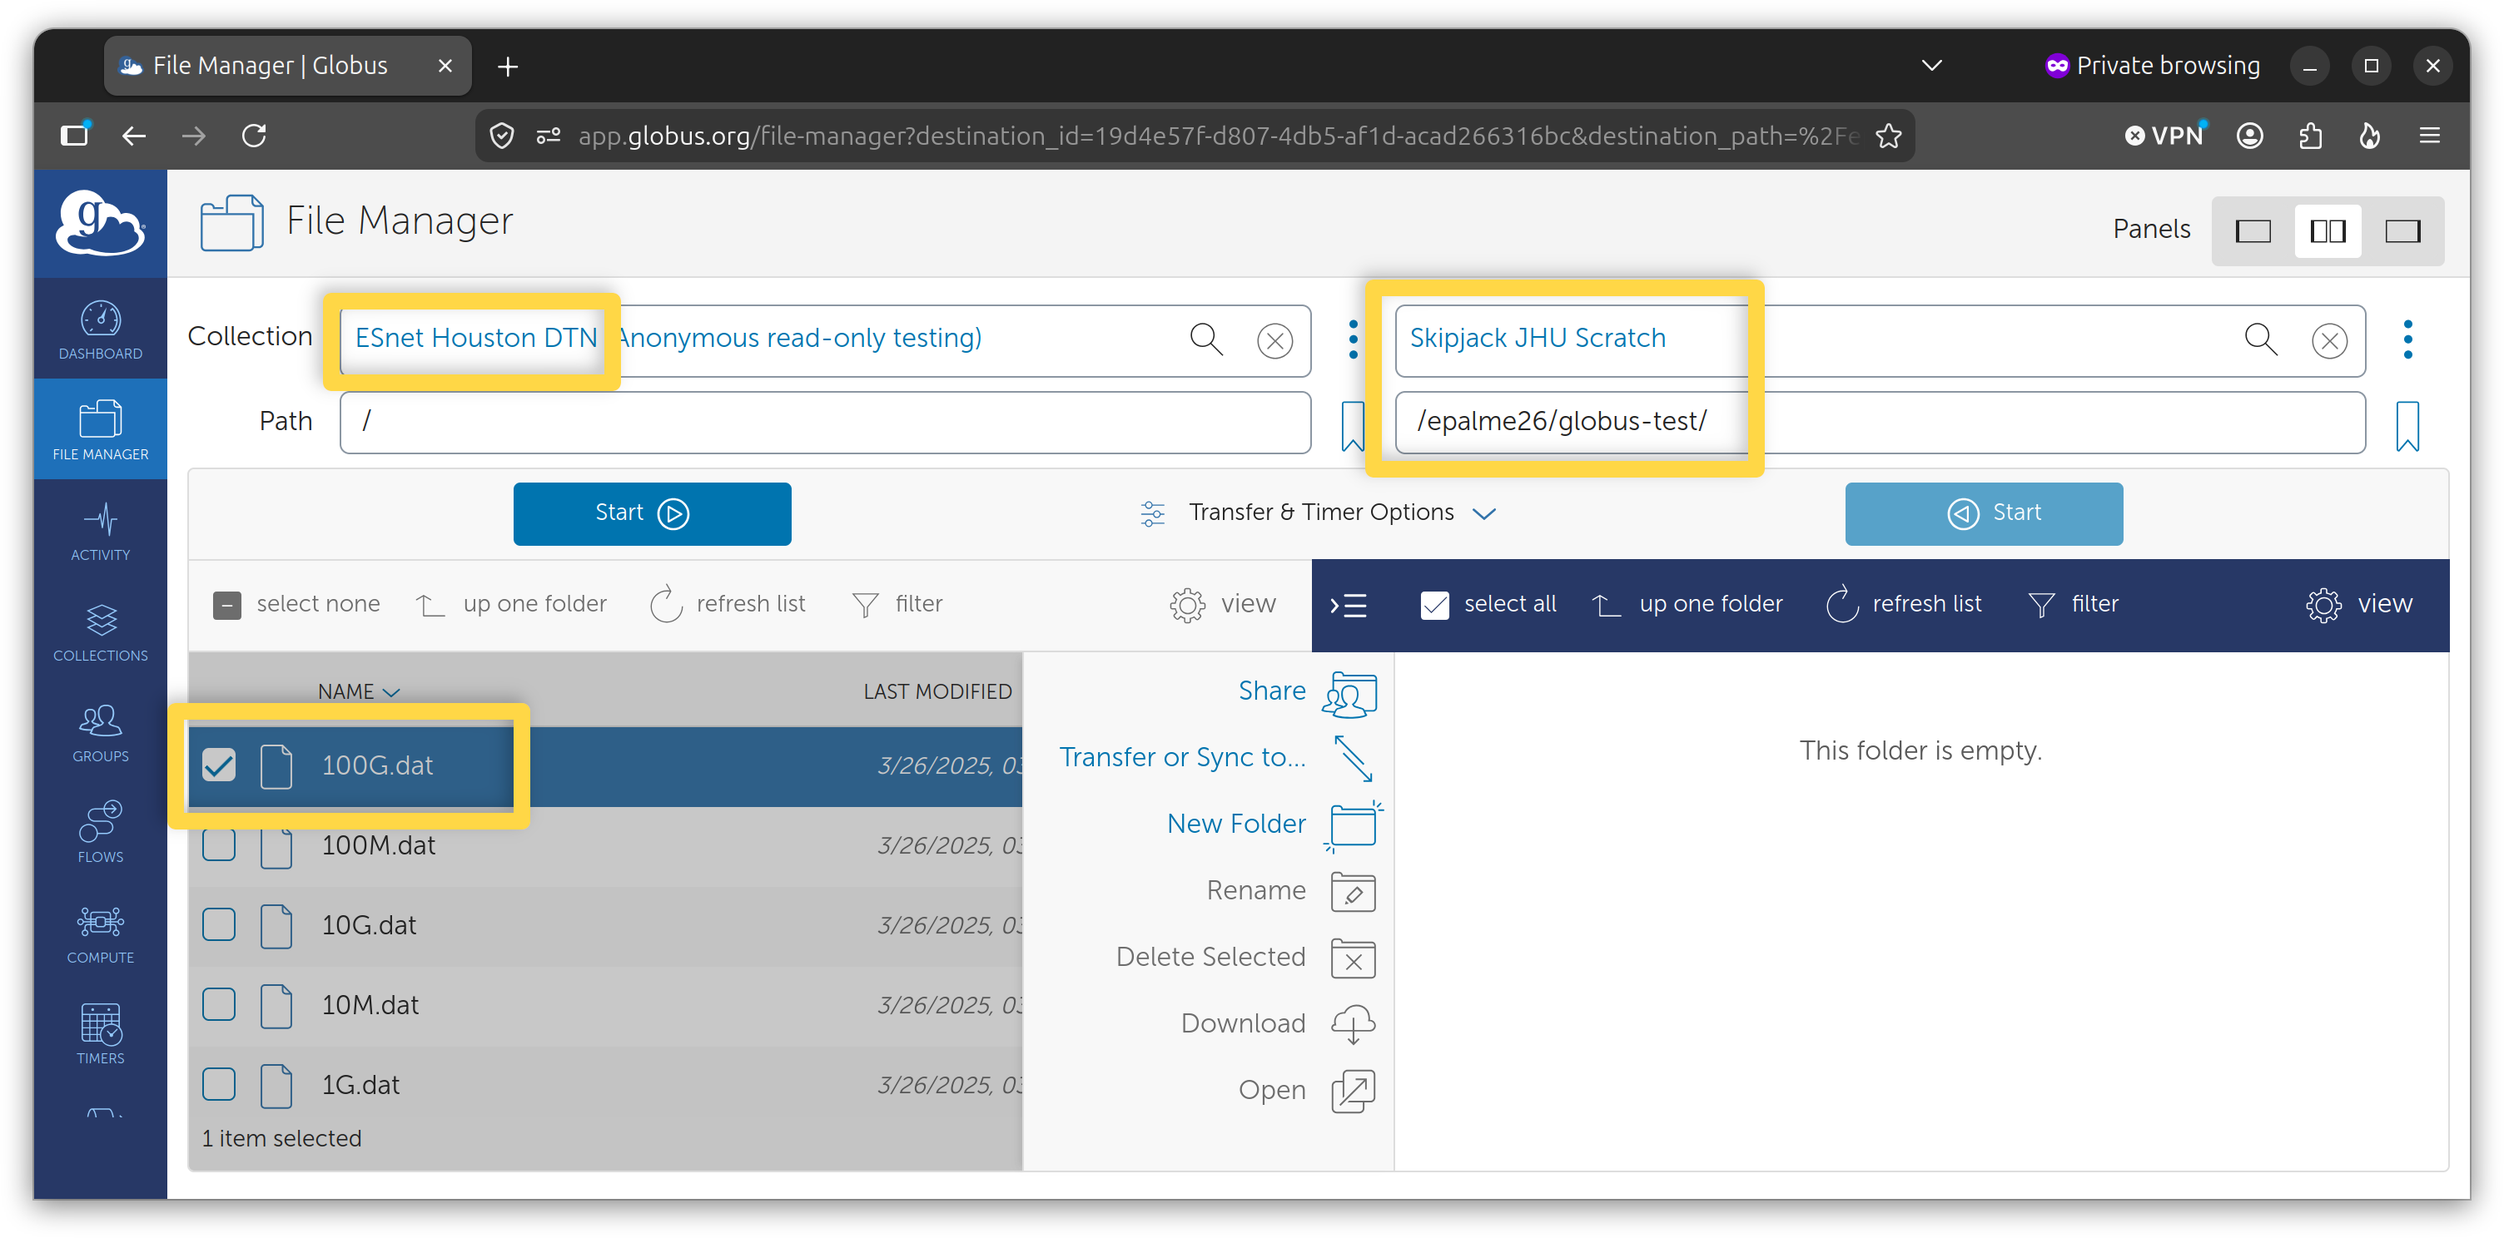
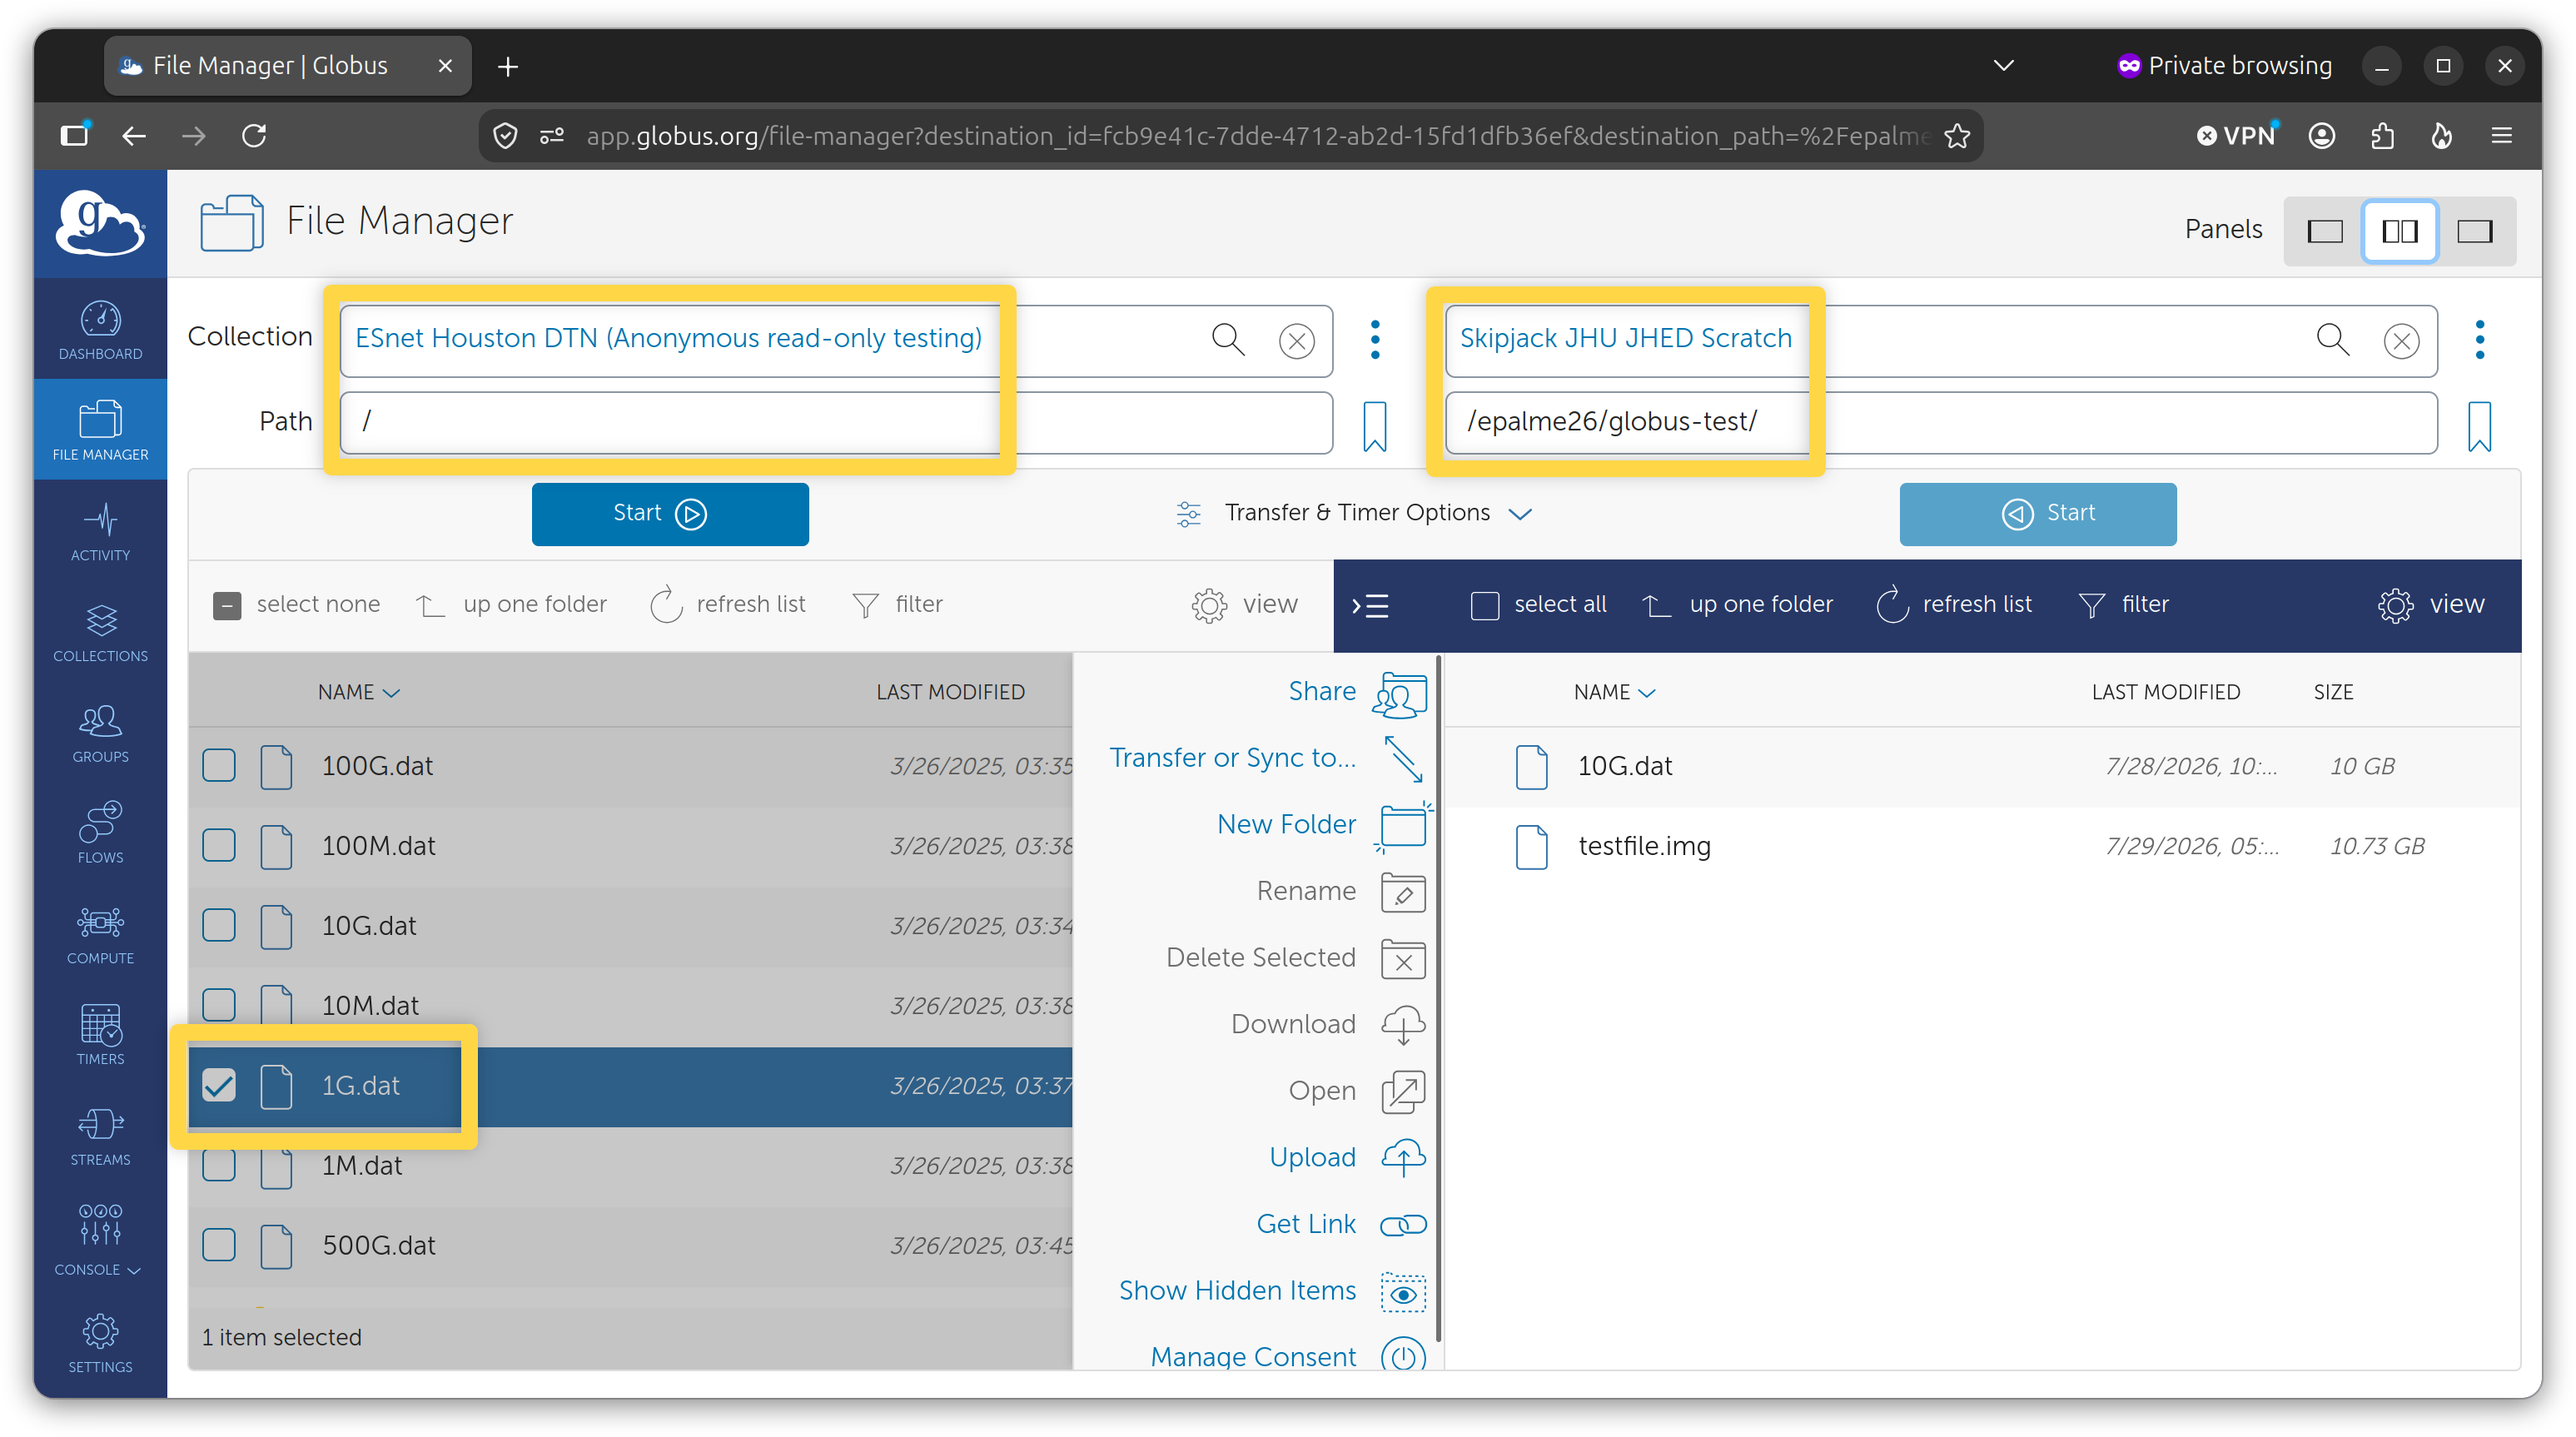
update Globus directions for SJ and JHED ID users

Changed region(s): [[0.0, 0.0, 1.0, 0.9892], [0.7188, 0.5874, 0.8125, 0.6183], [0.625, 0.5874, 0.6562, 0.6183]]

diff --git a/1_Clusters/Skipjack/Quickstart.rst b/1_Clusters/Skipjack/Quickstart.rst
@@ -63,6 +63,8 @@ Navigate to the Arch Portal at https://portal.arch.jhu.edu
 Select Affiliation and Use Case
 ^^^^^^^^^^^^^^^^^^^^^^^^^^^^^^^
 
+.. _affiliation:
+
 As a multi-architecture system with a diverse user base, Skipjack requires users to determine
 their access method based on both their affiliation and their specific purpose. To find the
 correct procedure, please refer to the table below.
@@ -341,15 +343,6 @@ Enter the code from your OTP app that corresponds to your Skipjack account.
 Data Transfer with Globus
 -------------------------
 
-.. admonition:: JHED ID users should use *Skipjack JHU JHED Home* and *Skipjack JHU JHED Scratch*
-   :class: warning
-
-   For JHED ID users, please follow the directions below but use **Skipjack JHU JHED Home** in place
-   of **Skipjack JHU Home** and **Skipjack JHU JHED Scratch** in place of **Skipjack JHU Scratch**
-   endpoints. Updated docs coming soon!
-
-   Questions? Please contact us at `arch@jh.edu <mailto:arch@jh.edu>`_
-
 We recommend using Globus to transfer large amounts of data to and from the Skipjack
 cluster. Globus reliably manages transfers in the background, handling restarts
 if interruptions occur.
@@ -366,21 +359,22 @@ can be done by reversing the endpoints or changing the transfer direction.
 1. Connect to Globus
 ^^^^^^^^^^^^^^^^^^^^
 
-Using your web browser, navigate to `<https://www.globus.org>`_.
+Using your web browser, navigate to `<https://www.globus.org>`_ and click **Log in**.
 
 .. image:: images/globus-nav.png
 
-2. Select Johns Hopkins
-^^^^^^^^^^^^^^^^^^^^^^^
+2. Select an Organizational Login
+^^^^^^^^^^^^^^^^^^^^^^^^^^^^^^^^^
 
-Select **Johns Hopkins** from the dropdown menu.
+Select **Johns Hopkins** from the dropdown menu to log in as a JHED ID user.
+Other users may want to select another organizational login.
 
 .. image:: images/globus-jhu-login.png
 
-3. Log in with JHED ID
-^^^^^^^^^^^^^^^^^^^^^^
+3. Log in to Globus
+^^^^^^^^^^^^^^^^^^^
 
-Authenticate via the Johns Hopkins SSO using your JHED ID.
+Authenticate via the Johns Hopkins SSO using your JHED ID or other appropriate login.
 
 .. image:: images/globus-jhu-id.png
 
@@ -408,15 +402,17 @@ In the new search bar on the second panel, search for **Skipjack**.
 
 .. image:: images/globus-twopane.png
 
-There are several Skipjack endpoints available:
+There are several Skipjack endpoints available. Select the endpoint that matches your `affiliation`_.
 
-   +---------------------------+
-   | **Skipjack JHU Homes**    |
-   +---------------------------+
-   | **Skipjack JHU Scratch**  |
-   +---------------------------+
-   | **Skipjack SSCI Scratch** |
-   +---------------------------+
+   +------------------+------------------------------------------------------------+
+   | Affiliation      | Globus Endpoints                                           |
+   +==================+============================================================+
+   | JHED ID          | **Skipjack JHU JHED Homes**, **Skipjack JHU JHED Scratch** |
+   +------------------+------------------------------------------------------------+
+   | Schmidt Sciences | **Skipjack JHU Homes**, **Skipjack SSCI Scratch**          |
+   +------------------+------------------------------------------------------------+
+   | External User    | **Skipjack JHU Homes**, **Skipjack JHU Scratch**           |
+   +------------------+------------------------------------------------------------+
 
 .. image:: images/globus-sj-endpts.png
 
@@ -427,22 +423,20 @@ Click the name hyperlink of the desired Skipjack endpoint to set it as your tran
 
 **Authenticate to Allow Access**
 
-On first access, Globus will ask for consent to access your data. At the prompt, click **Continue**.
+Globus will ask for consent to access data on the Skipjack endpoint. At the prompt, click **Continue**.
 
 .. image:: images/globus-consent-cont.png
 
-Follow the link **JHU Skipjack OIDC Server**.
+
+Click the link to continue the authentication process. JHED ID users should not need to reauthenticate.
 
 .. image:: images/globus-consent-link.png
 
-At the prompt, enter your Skipjack username and password (the same SSH credentials used to `Connect to the Skipjack Cluster`_).
+
+**Schmidt Sciences** and **External Users** will be prompted to enter their Skipjack username and password
+(the same SSH credentials used to `Connect to the Skipjack Cluster`_).
 
 .. image:: images/globus-consent-creds.png
-
-If prompted, log in to your primary identity, click **Continue** and follow the on-screen
-prompts to authenticate with your JHED ID.
-
-.. image:: images/globus-consent-primary.png
 
 **Allow Globus Web App**
 
@@ -492,7 +486,7 @@ You can monitor, manage and confirm transfer activity under the **Activity** tab
 Running VSCode on Skipjack
 --------------------------
 
-For details on responsibility running VSCode on the Skipjack cluster, please see
+For details on responsibly running VSCode on the Skipjack cluster, please see
 :doc:`vscode`.
 
 |
